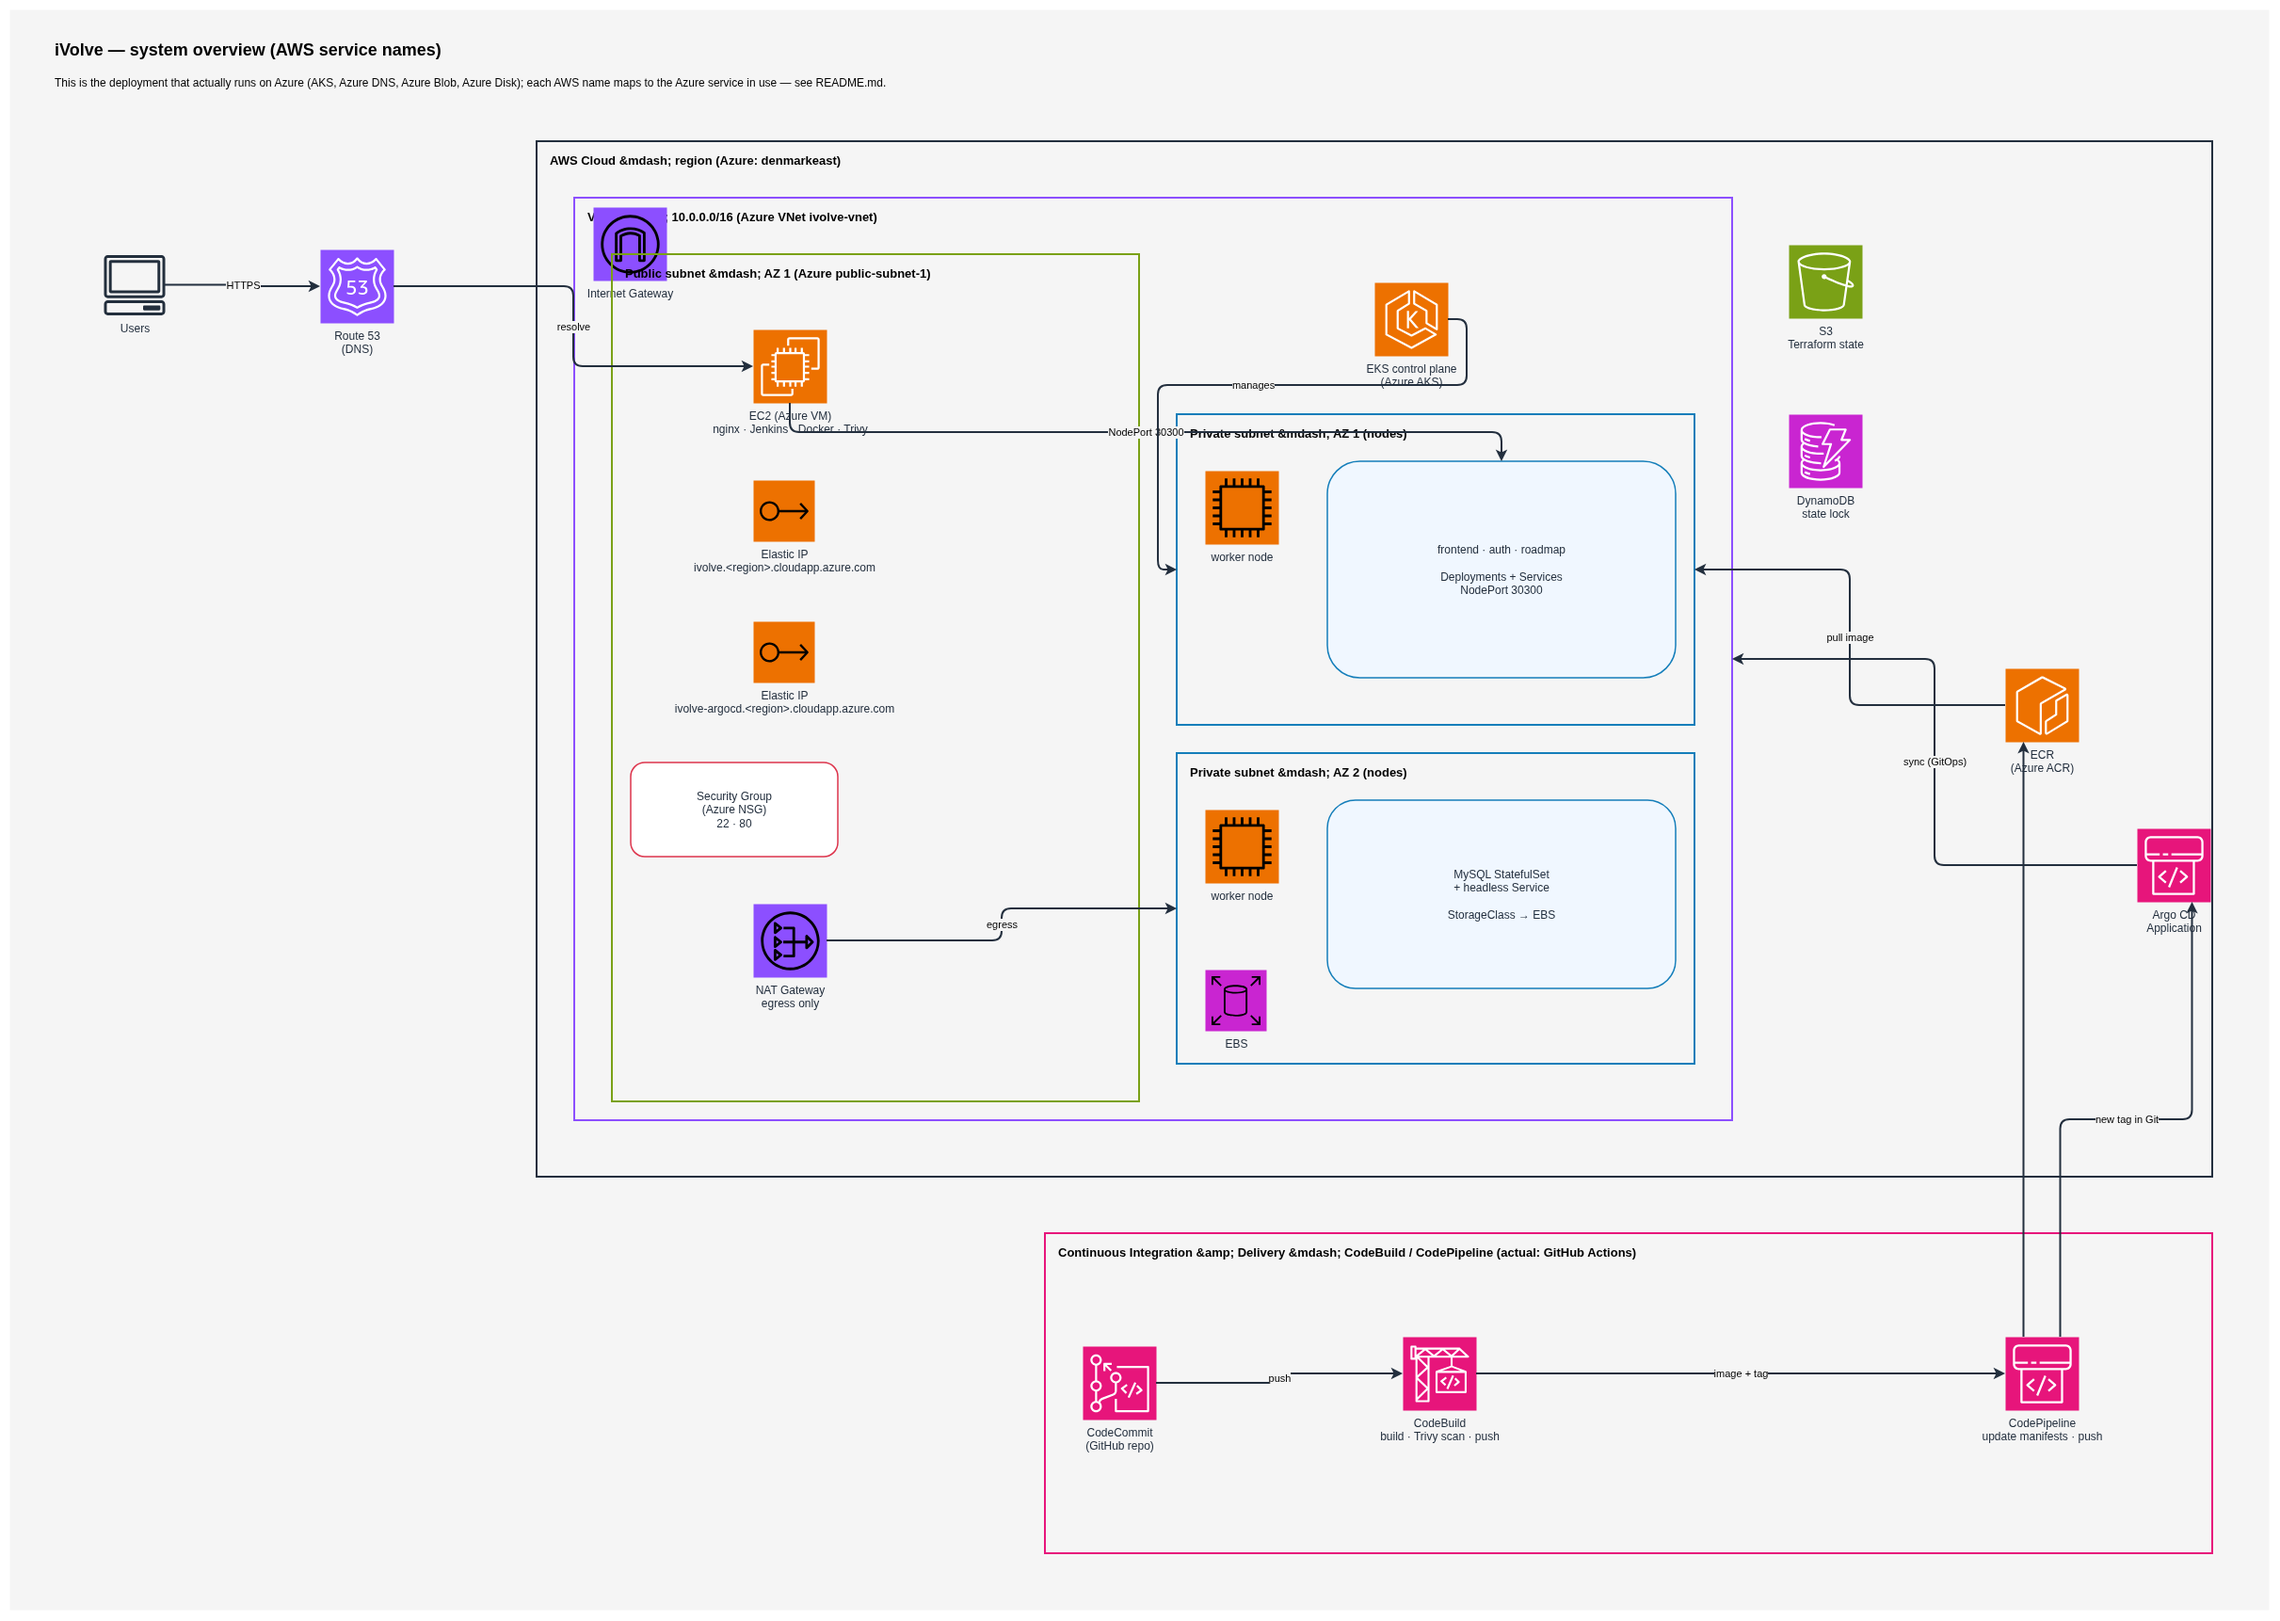
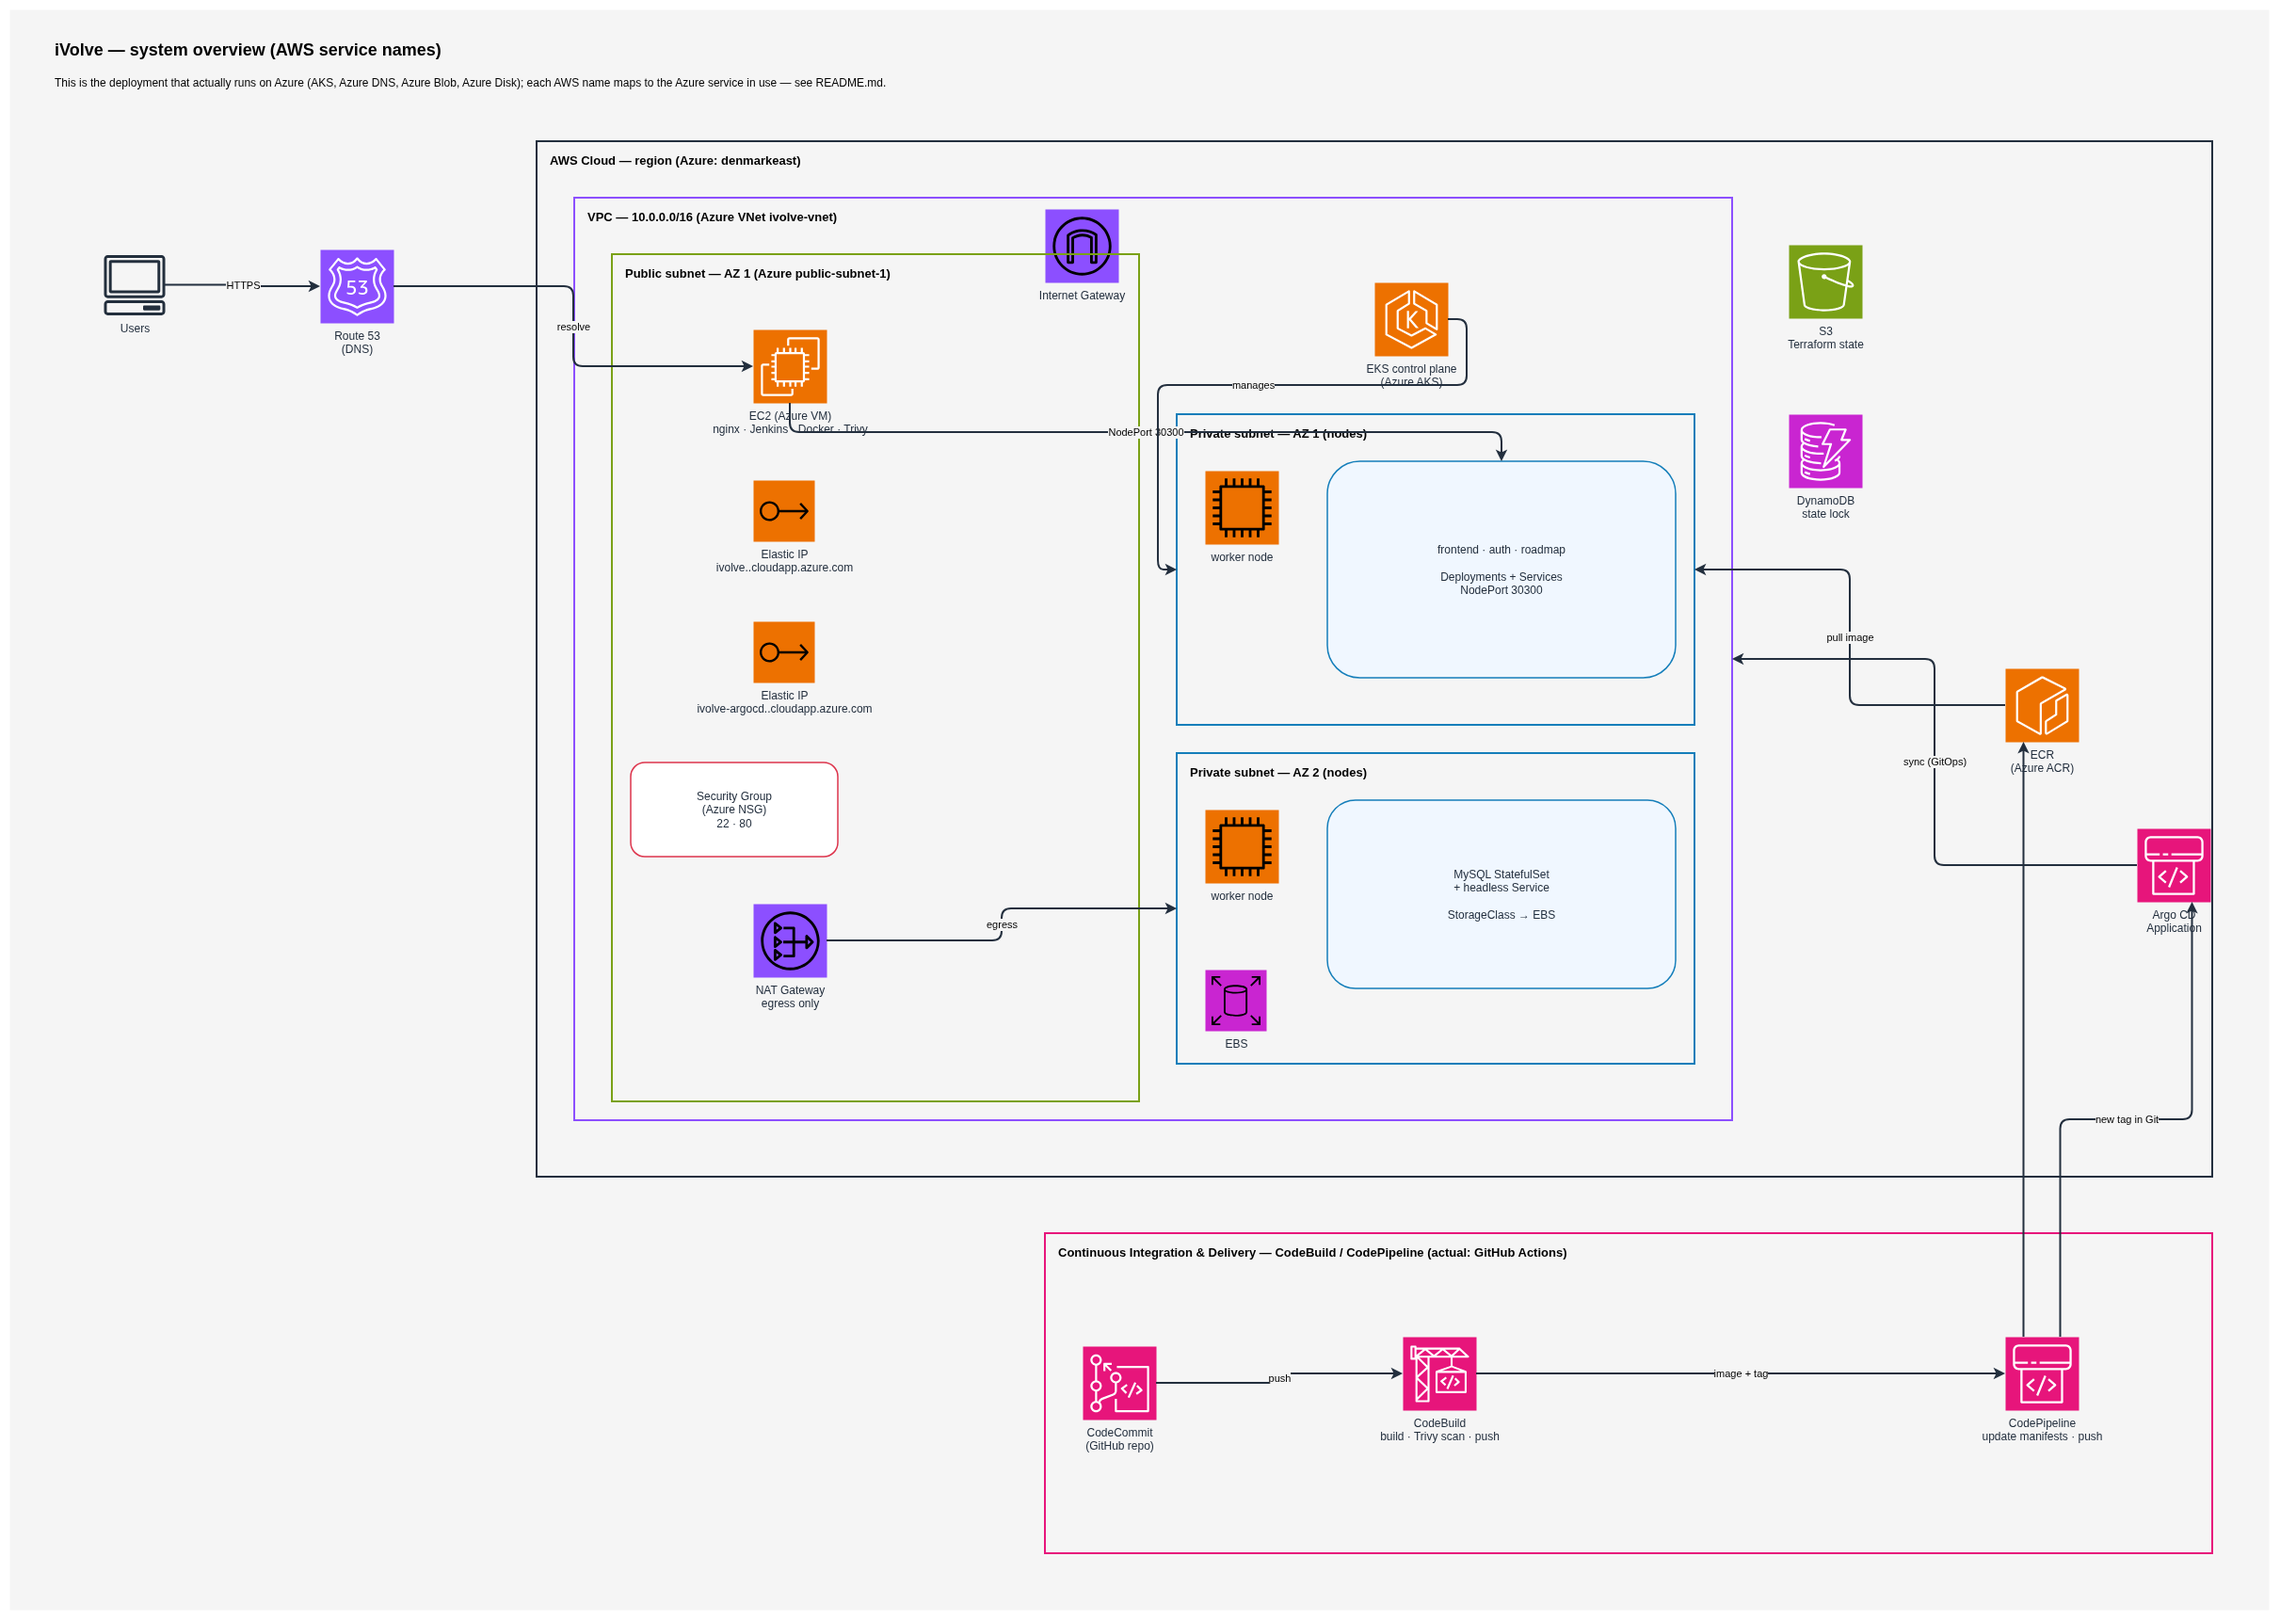
fix(diagrams): render entities as real punctuation, move Internet Gateway off the group label

diff --git a/docs/aws-architecture/src/make_diagrams.py b/docs/aws-architecture/src/make_diagrams.py
@@ -24,7 +24,25 @@ AWS_ICONS = "/usr/sbin/drawio"
 # ---------------------------------------------------------------- helpers
 
 
+ENTITIES = {
+    "&mdash;": "\u2014",
+    "&ndash;": "\u2013",
+    "&middot;": "\u00b7",
+    "&rarr;": "\u2192",
+    "&rArr;": "\u21d2",
+    "&amp;": "&",
+    "&lt;": "<",
+    "&gt;": ">",
+    "&shy;": "",
+    "&nbsp;": " ",
+}
+
+
 def esc(text: str) -> str:
+    """Labels are authored with entities; turn them into real characters first,
+    otherwise the escaping below renders them literally."""
+    for ent, char in ENTITIES.items():
+        text = text.replace(ent, char)
     return html.escape(text, quote=False)
 
 
@@ -313,7 +331,7 @@ def overview():
     cloud = d.group(560, 140, 1780, 1100, "AWS Cloud &mdash; region (Azure: denmarkeast)", "#232F3E")
     vpc = d.group(40, 60, 1230, 980, "VPC &mdash; 10.0.0.0/16 (Azure VNet ivolve-vnet)", "#8C4FFF", parent=cloud)
 
-    d.icon(20, 10, "Internet Gateway", "internet_gateway", "#8C4FFF", parent=vpc, stroke="none")
+    d.icon(500, 12, "Internet Gateway", "internet_gateway", "#8C4FFF", parent=vpc, stroke="none")
 
     # public subnet: the bastion host
     pub = d.group(40, 60, 560, 900, "Public subnet &mdash; AZ 1 (Azure public-subnet-1)", "#7AA116", parent=vpc)
@@ -375,7 +393,7 @@ def network():
 
     cloud = d.group(60, 130, 2280, 1160, "AWS Cloud &mdash; region (Azure: denmarkeast)", "#232F3E")
     vpc = d.group(40, 60, 2180, 1000, "VPC &mdash; 10.0.0.0/16 (Azure VNet ivolve-vnet)", "#8C4FFF", parent=cloud)
-    d.icon(20, 10, "Internet Gateway", "internet_gateway", "#8C4FFF", parent=vpc, stroke="none")
+    d.icon(500, 12, "Internet Gateway", "internet_gateway", "#8C4FFF", parent=vpc, stroke="none")
 
     # public AZ1
     pub1 = d.group(40, 60, 1000, 380, "Public subnet &mdash; AZ 1 (10.0.0.0/24)", "#7AA116", parent=vpc)
